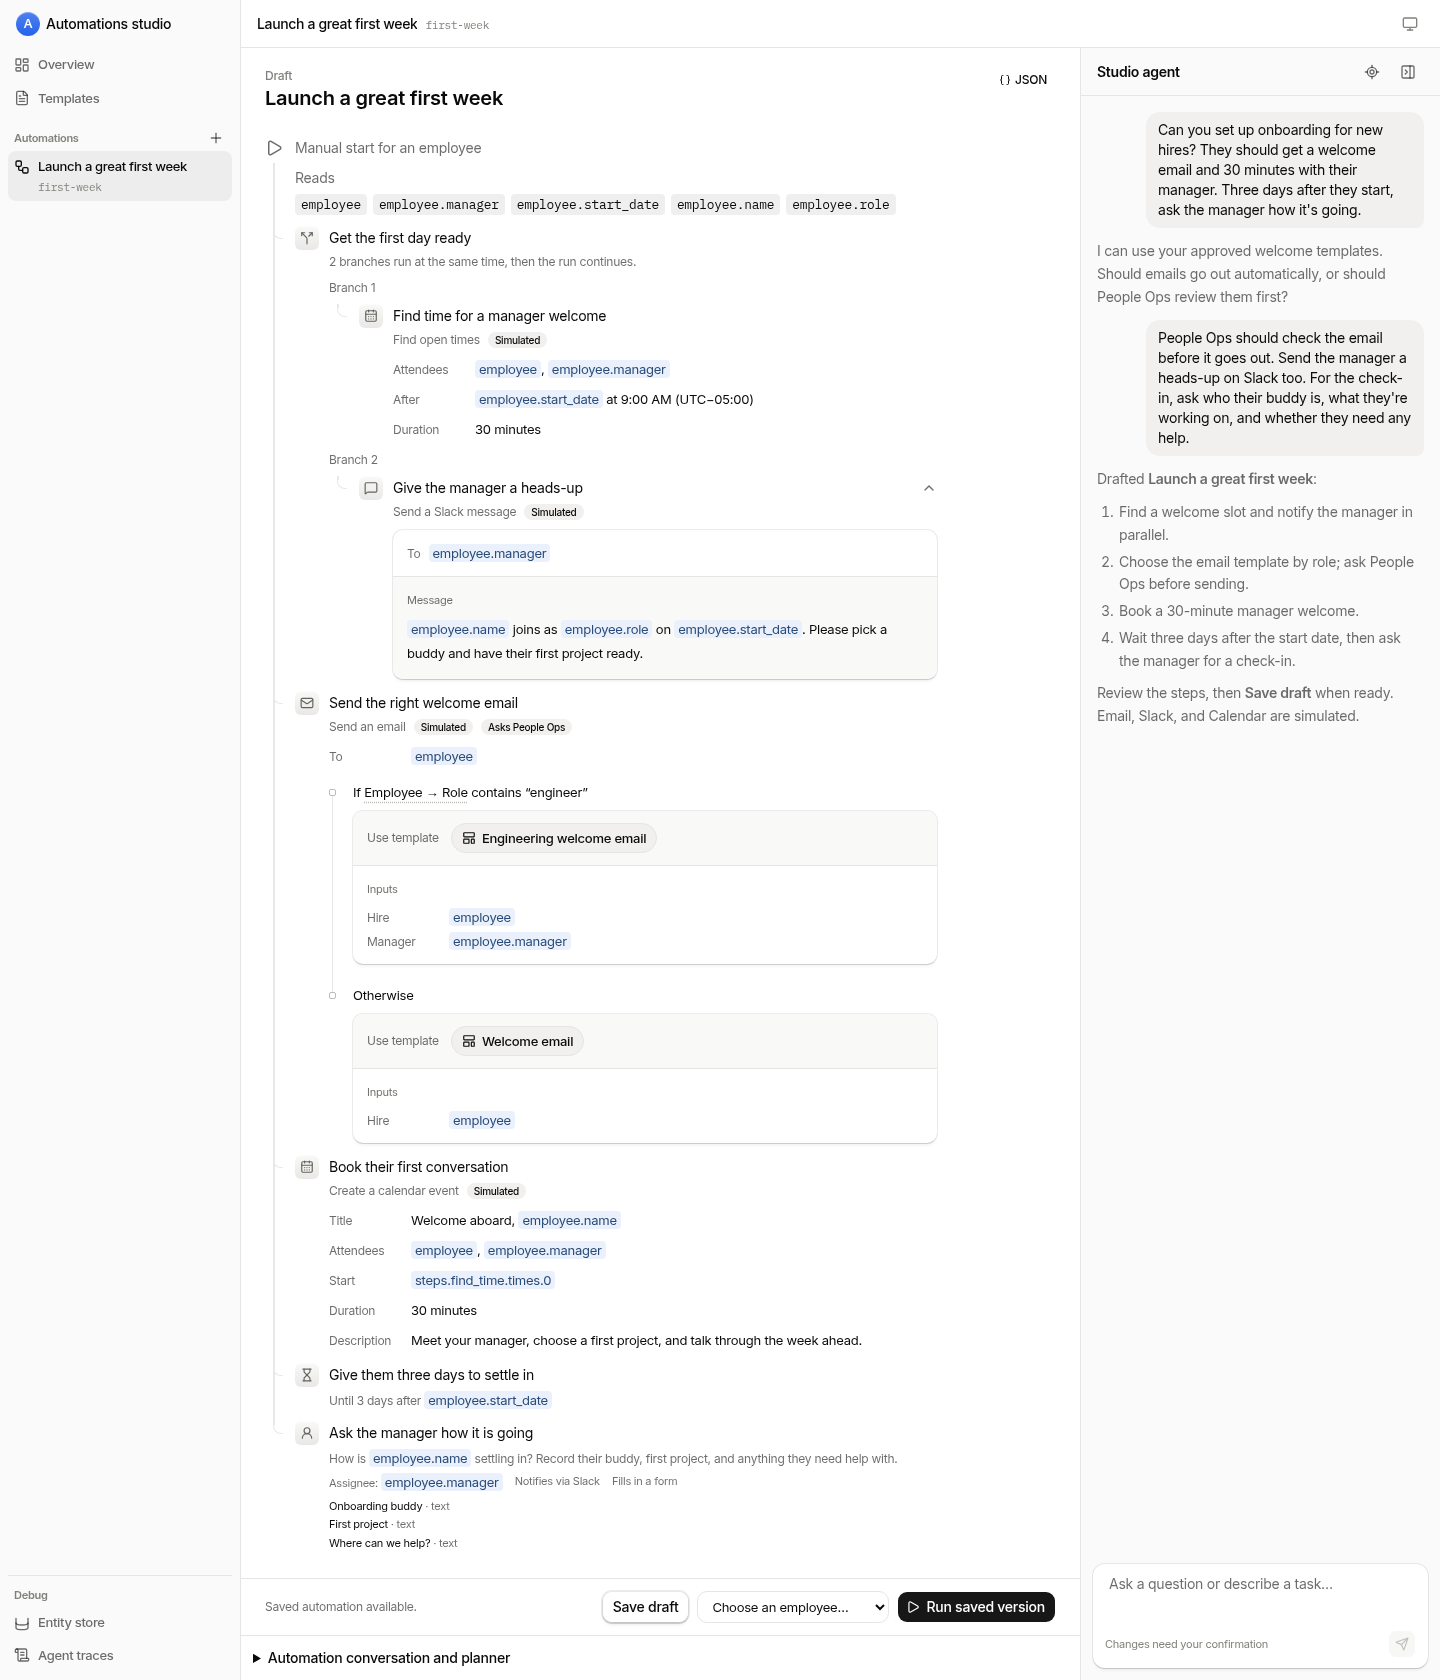
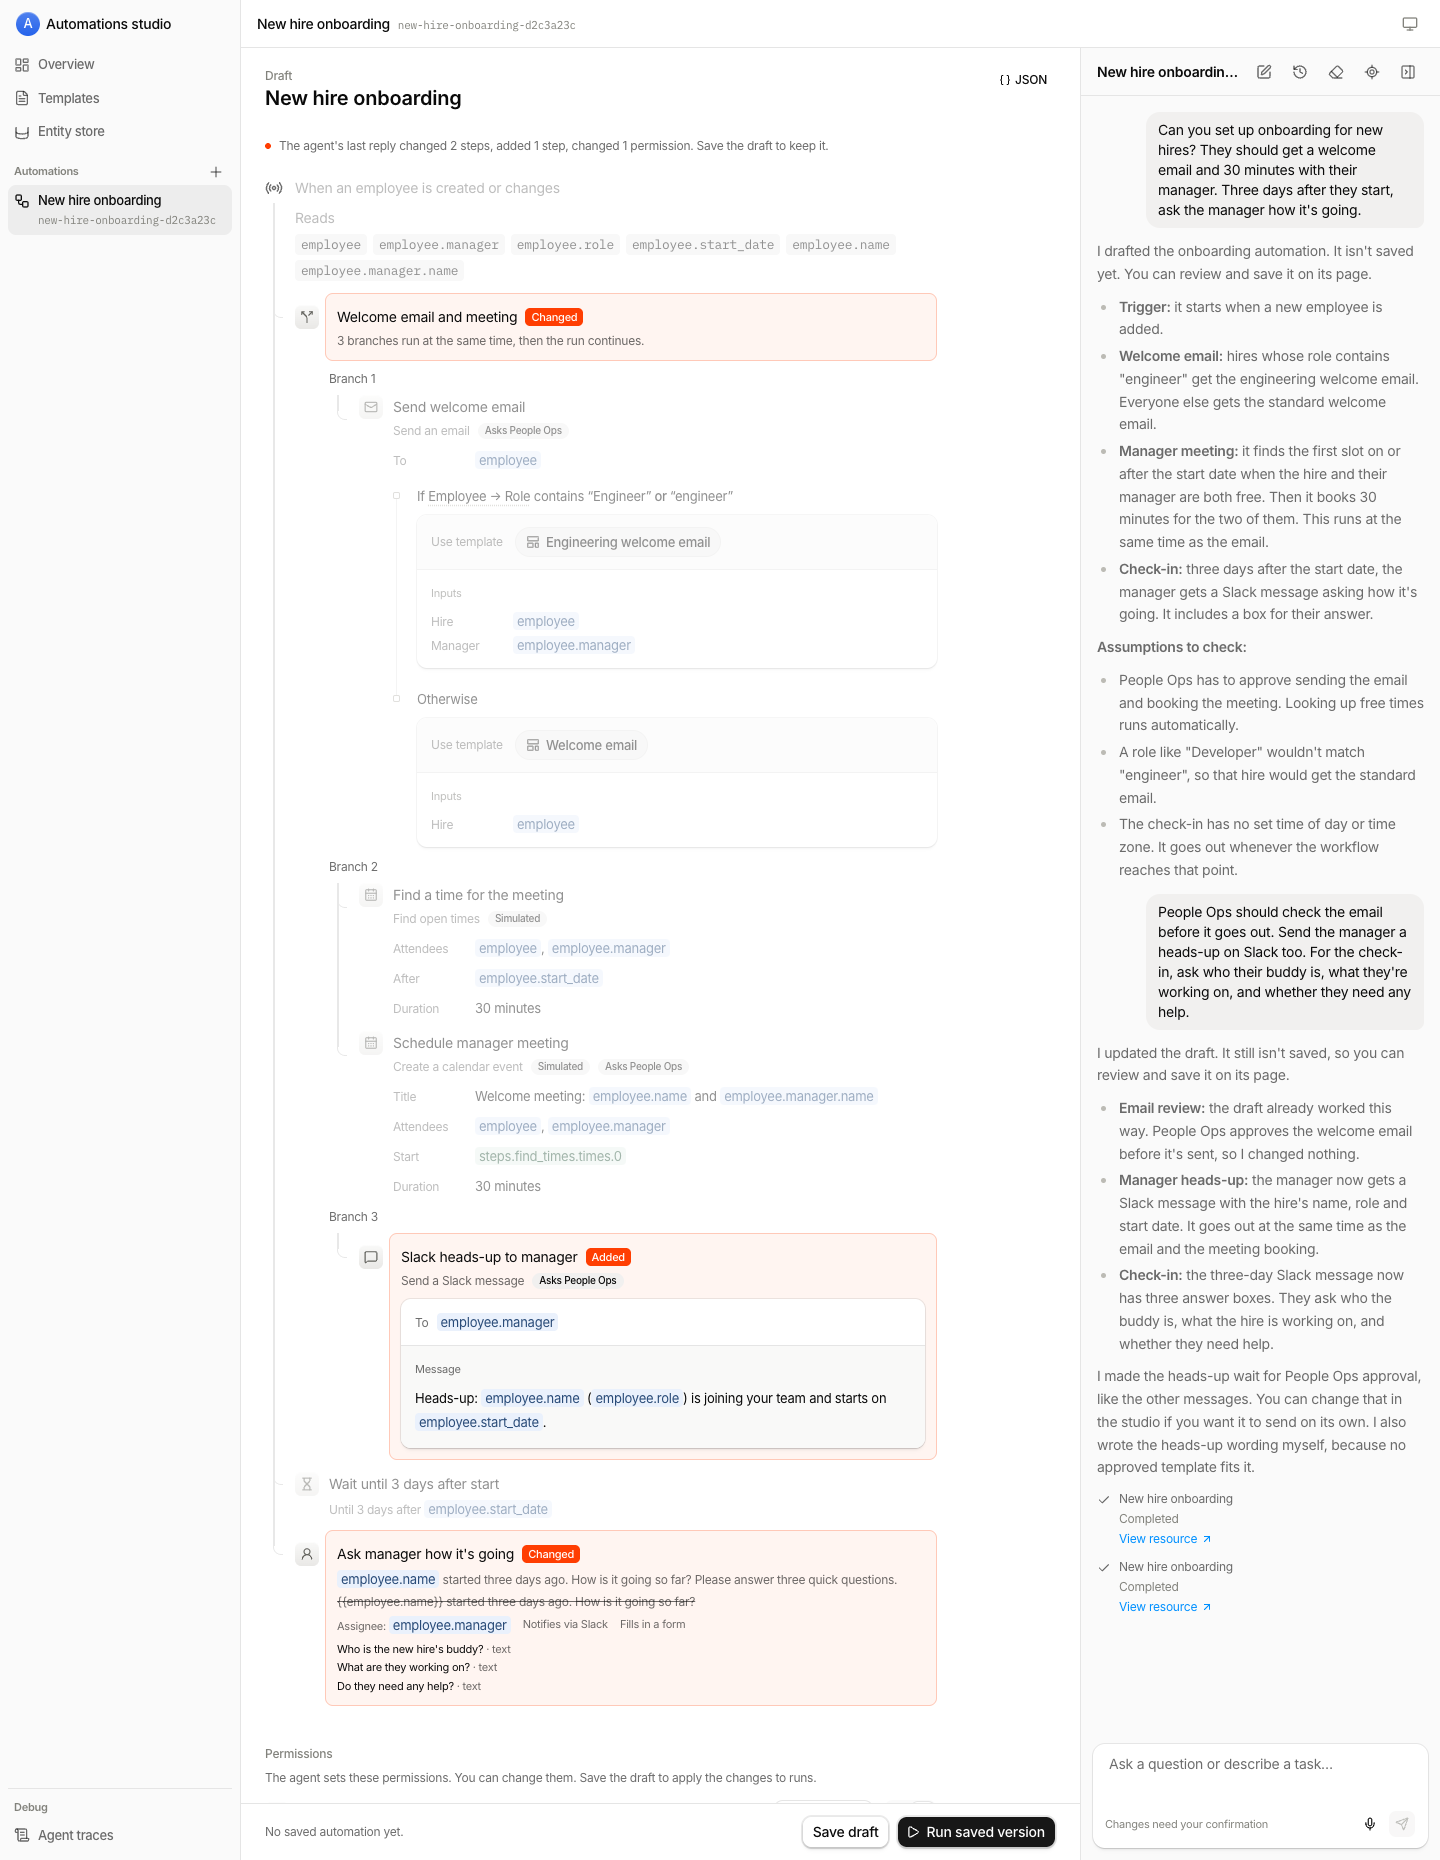
Add an updated screenshot to the README
- Replace docs/images/first-week.png with a capture of a live studio
  agent conversation: the README's two requests, drafted and refined by
  the planner in a local studio, with the change marks the second reply
  left on the draft.
- Show the screenshot in the demo scenario again, with a caption on
  what's simulated.
- Describe how it was taken and how to retake it in the development
  guide, and fix a stale README anchor there.

diff --git a/docs/development.md b/docs/development.md
@@ -290,11 +290,9 @@ Deployed stages sit behind Access, so send the service token as headers (`--head
 
 The [first-week example](examples/first-week.json) is a schema- and catalog-validated workflow using the migration-seeded employee type, welcome templates, and People Ops role. A run needs an employee with a start date and a manager. The seeded Ada record starts without a date; the execution check supplied `2026-11-02` in disposable local data.
 
-The screenshot was captured from the real studio at a 1440 × 1680 viewport in light mode, with the Assistant open beside the workflow and no run panel. It shows a scripted two-turn conversation: an initial onboarding request, a question about email approval, and a refinement asking for People Ops review and a manager check-in. The manager-notification step is expanded so its whole message is visible. The taller frame includes the template branch cards and every follow-up step. The browser renders the conversation and draft through local API overrides; no UI markup or styling was changed for the capture.
+The README screenshot (`docs/images/first-week.png`) was captured from `mise run dev` at a 1440 × 1860 viewport in light mode, with the studio agent open beside the draft and no run panel. After `mise run demo:reset`, the fallback `first-week` automation was deleted so the sidebar lists only the new one. Then the README's two requests were sent to the studio agent on one thread, unedited, and the planner (Claude Sonnet through AI Gateway) drafted and refined the workflow live. Nothing in the conversation, the draft, or the UI was scripted or retouched. The draft was not saved or run.
 
-Cloudflare OAuth had expired while preparing the demo, so its planner used scripted calls to the production editing tools. Separately from the screenshot, the application saved and executed the workflow through an in-memory `AutomationHost`, completed both parallel branches using simulated connections, and paused at the email approval.
-
-The screenshot demonstrates the conversation and workflow UI, not a live model response, native Durable Object recovery, or delivery to an external service. To draft a similar workflow with a live model, use the description in the [README](../README.md#a-first-week-that-does-not-fall-through-the-cracks) after configuring Workers AI credentials. To load it as a draft, send it to `PUT /api/automations/:id/draft`.
+Because the model drafted it, the screenshot's workflow differs from the [first-week example](examples/first-week.json): for example, it sends the welcome email in parallel with the meeting and the heads-up, and it asks People Ops before more operations. To retake it, repeat those steps and open the new automation's page with the thread still open in the assistant panel. To load the example instead, send it to `PUT /api/automations/:id/draft`.
 
 ## Caveats
 

diff --git a/README.md b/README.md
@@ -20,7 +20,11 @@ Then refine it:
 
 It finds a welcome slot and gives the manager a heads-up **in parallel**. It chooses approved email wording based on the hire’s role, pauses for **People Ops to review the exact email**, and books a manager welcome. Three days after the start date, it asks the manager to record the onboarding buddy, first project, and any help the hire needs.
 
-The [example workflow](docs/examples/first-week.json) uses the employee type, templates, and People Ops role included with local setup. Choose an employee with a start date and manager to try it. The screenshot pairs a scripted local conversation with the validated draft; see the [demo details](docs/development.md#readme-demo). `mise run demo:reset` prepares a local studio for the live demo; see [Live demo](docs/development.md#live-demo).
+The [example workflow](docs/examples/first-week.json) uses the employee type, templates, and People Ops role included with local setup. Choose an employee with a start date and manager to try it. The screenshot below is a live model's draft from these two requests, so it differs in places from the example; see the [demo details](docs/development.md#readme-demo). `mise run demo:reset` prepares a local studio for the live demo; see [Live demo](docs/development.md#live-demo).
+
+![The studio agent drafting and then refining a new-hire onboarding automation, beside the rendered draft: a welcome email chosen by role, a manager meeting, and a Slack heads-up running in parallel, a three-day wait, and a check-in form for the manager. Steps the last reply added or changed are marked.](docs/images/first-week.png)
+
+_Both requests sent to the studio agent in a local studio. The draft marks what the second reply added or changed. Calendar is simulated, and Email and Slack are too unless you connect them._
 
 ## Workflows with people in the loop
 
